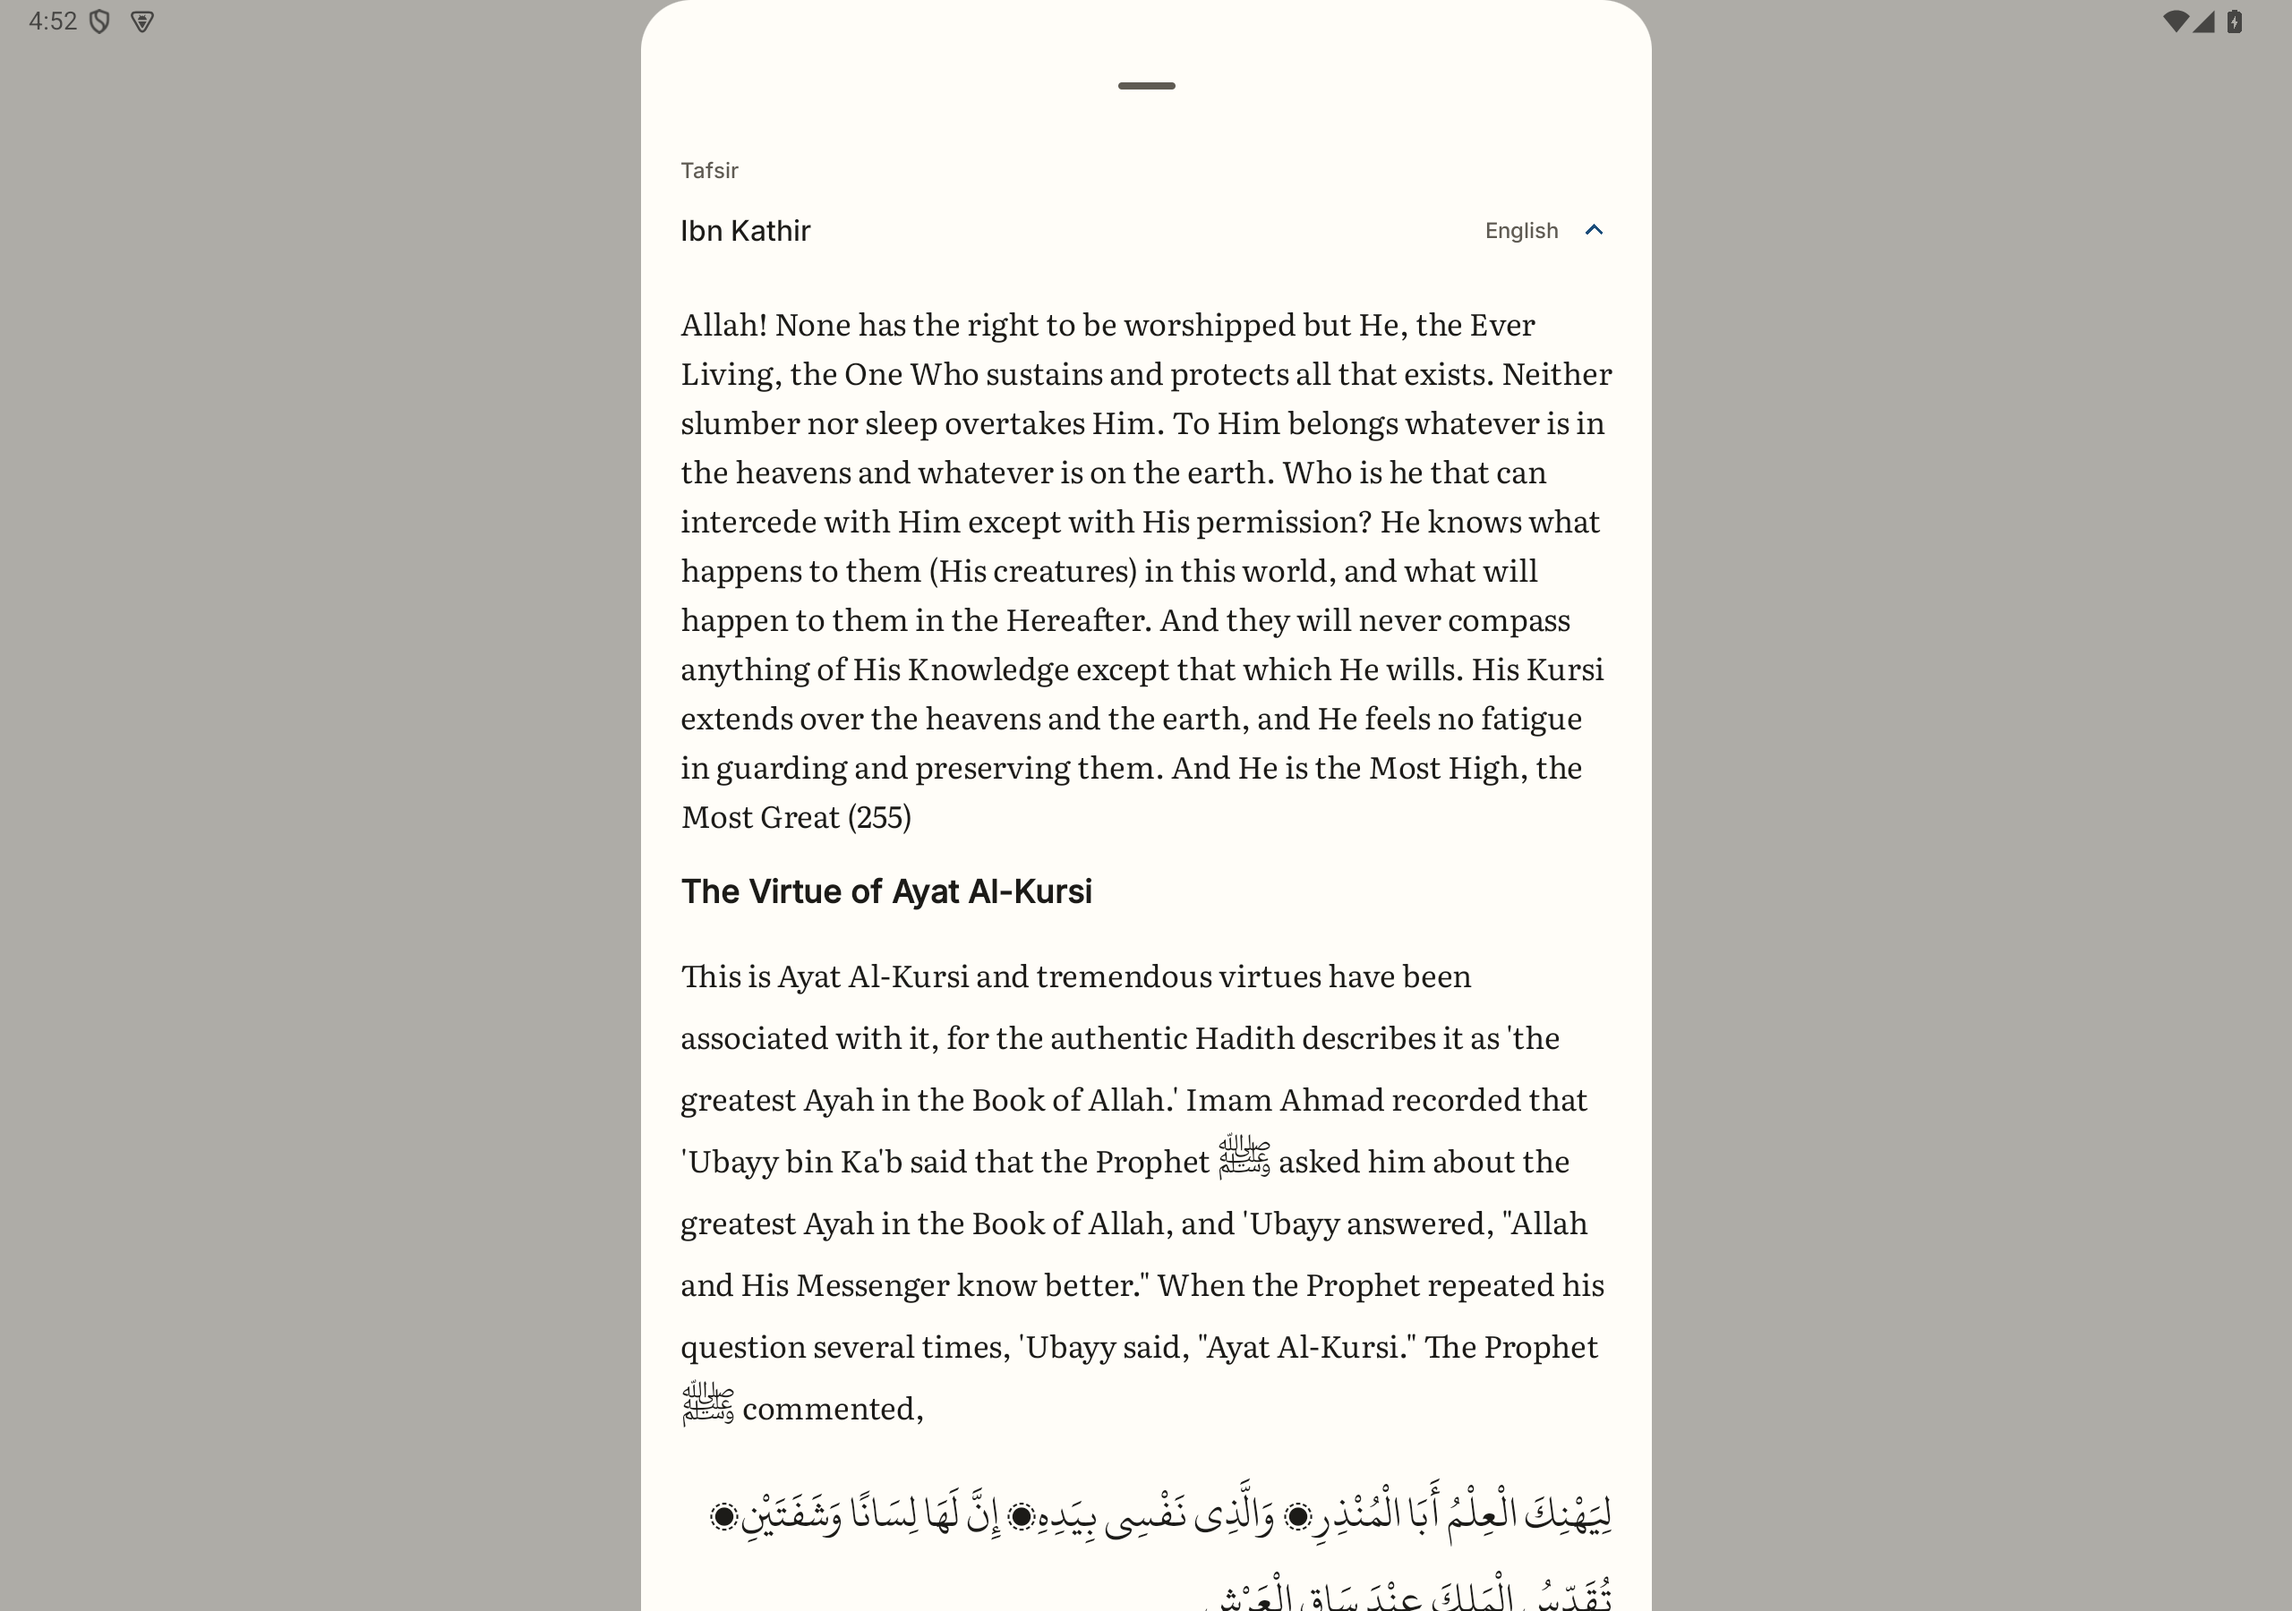
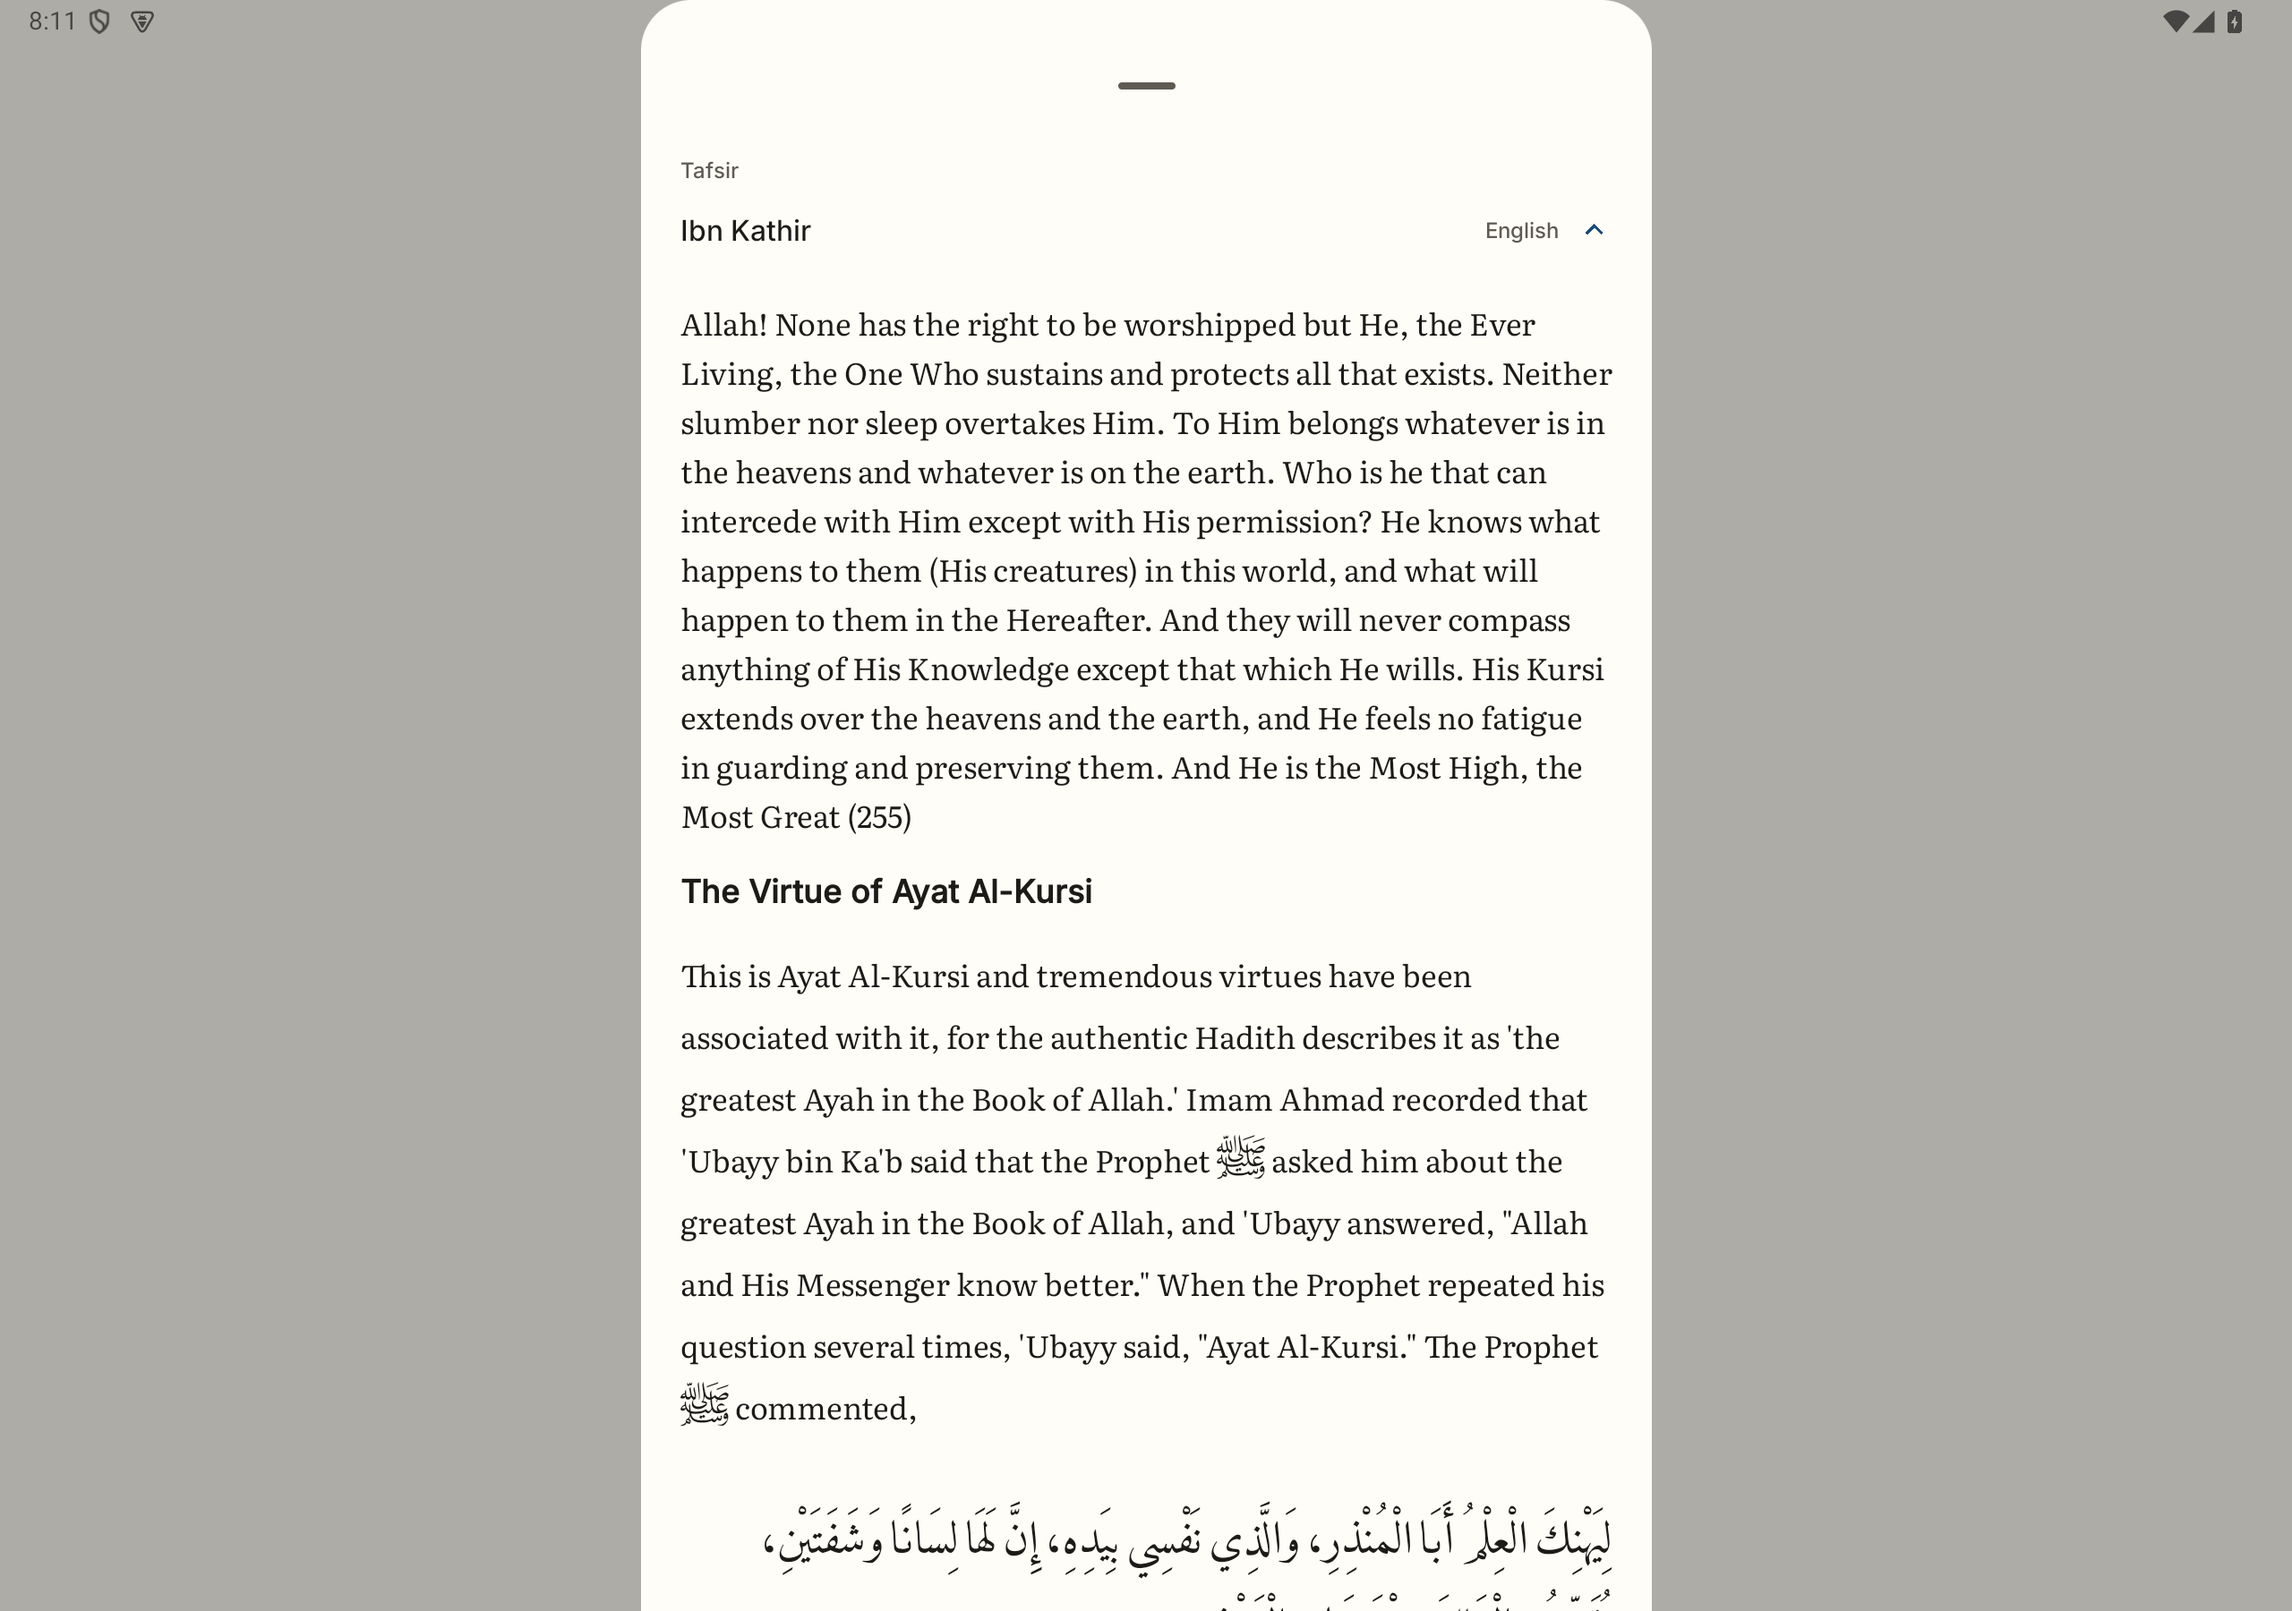
The store set follows the reading: tablet tafsir frames in Amiri
Two frames from the green capture on main, every frame compared, the changed ones read: the tablet tafsir frames showed the Hafs placeholder where the Arabic commas stand, and show Amiri commas now. All other frames are byte-identical or differ only in the status bar clock.

Changed region(s): [[0.3125, 0.9333, 0.7188, 1.0], [0.5312, 0.6844, 0.6875, 0.7467], [0.2812, 0.84, 0.4062, 0.9022]]

diff --git a/play-store/listing.md b/play-store/listing.md
@@ -113,7 +113,7 @@ caption keeps air above the frame's foot. Every element stands inside the
 safe area, well clear of the edges Play may crop or overlay, and the file is
 1024 x 500, 24-bit PNG with no alpha.
 
-The set is refreshed for 6.0 from capture run 38157474099: all three legs green with eight frames each, and fifteen of the twenty-four frames changed against the 5.9 set and were read. The three settings frames carry the release's own change: the Listening row is gone and the Theme row reads Light. The three search frames also stand in the captured text caret, and every other changed frame differs only in the status bar clock; the reading, chrome, surah-opening, Browse, ayah-card, and tafsir content is unchanged.
+The set is refreshed for 6.0 from capture run 38157474099: all three legs green with eight frames each, and fifteen of the twenty-four frames changed against the 5.9 set and were read. The three settings frames carry the release's own change: the Listening row is gone and the Theme row reads Light. The three search frames also stand in the captured text caret, and every other changed frame differs only in the status bar clock; the reading, chrome, surah-opening, Browse, ayah-card, and tafsir content is unchanged. The tablet tafsir frames were refreshed from the green run on main after the return to Amiri: every frame compared with its artifact by `cmp`, the two changed frames read, the dotted-circle placeholders gone and the commas in their place.
 
 The workflow runs the capture test on three emulator profiles (phone, 7 inch,
 10 inch), caches the AVD per profile so only the first run of each pays for
